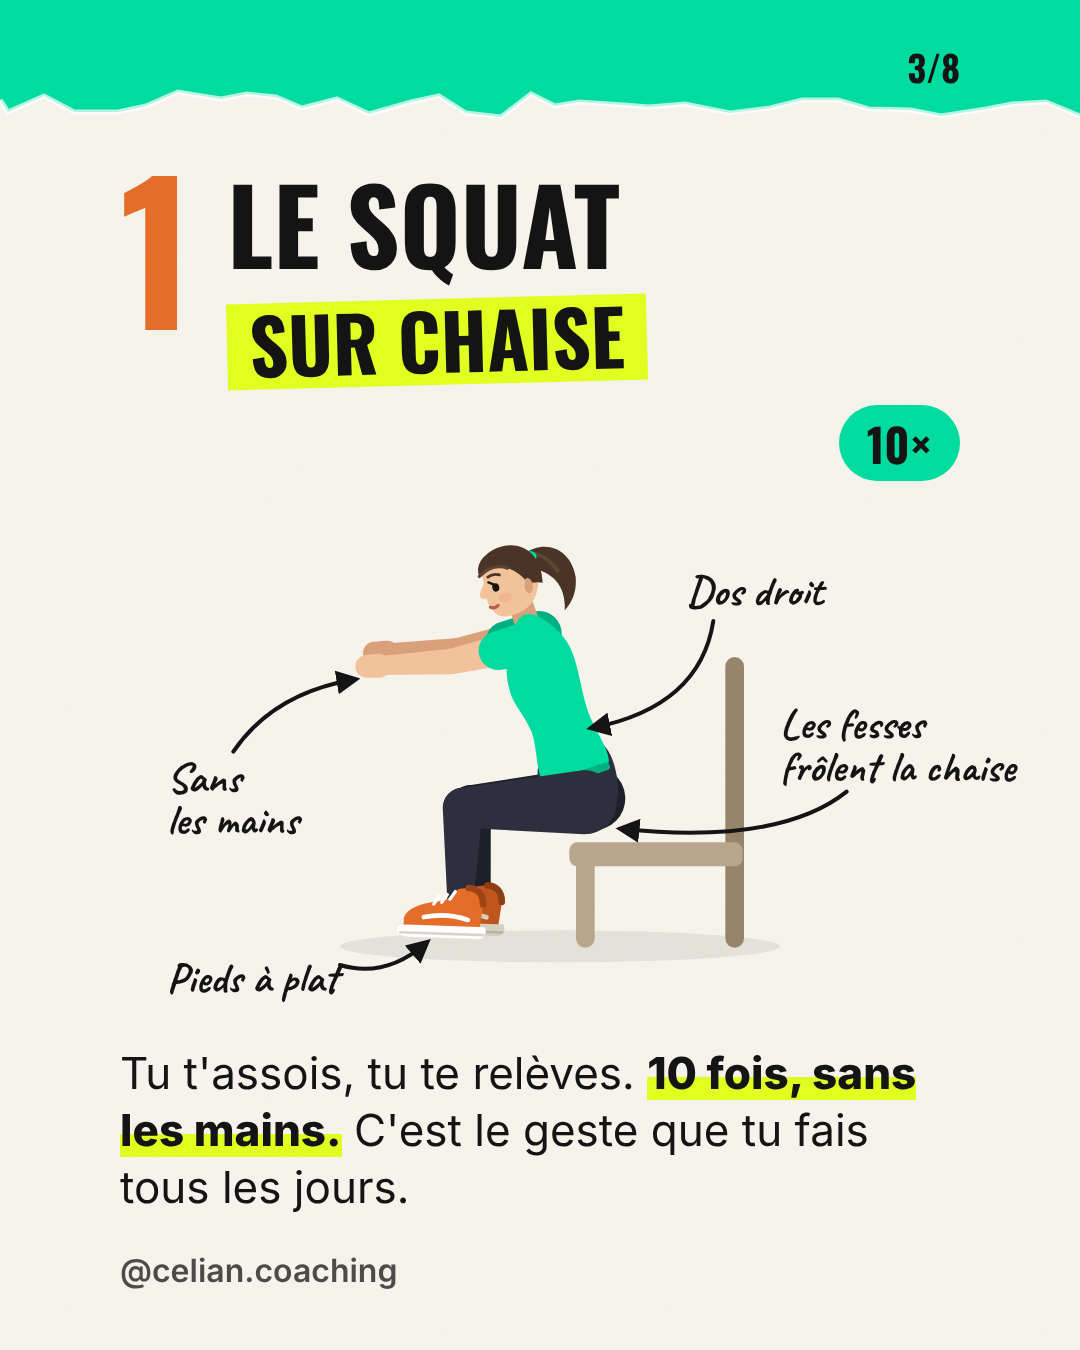
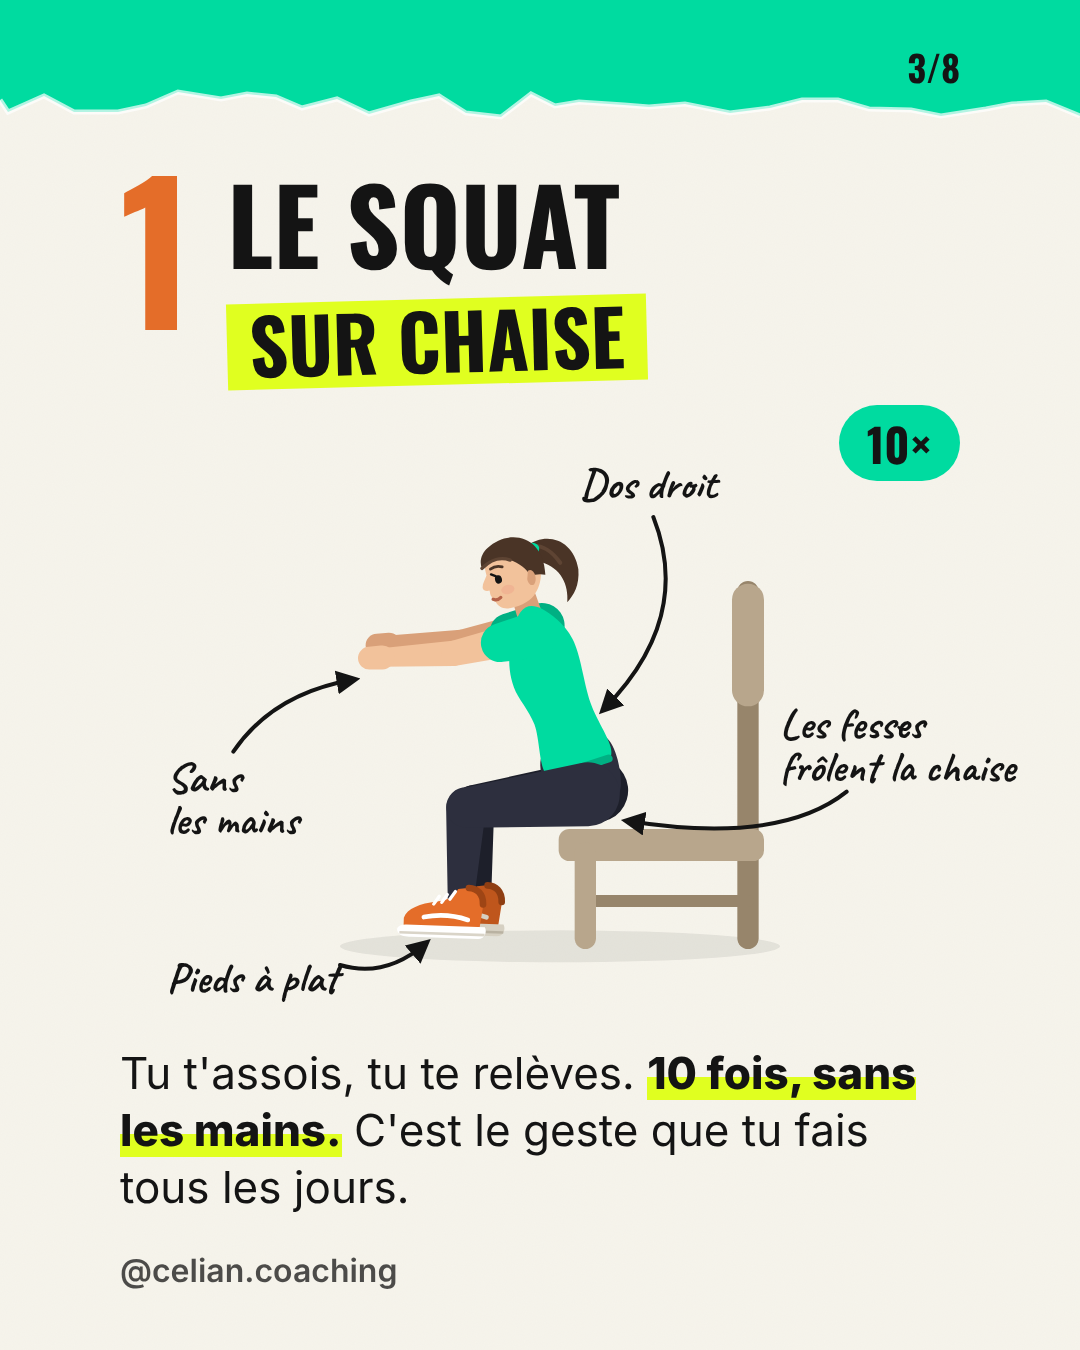
Carousel 01: bigger chair in proportion to the character, label moved off the backrest
Claude-Session: https://claude.ai/code/session_01EmtKGbXg2Rz9u67xYLS3c3

Changed region(s): [[0.3361, 0.3733, 0.7639, 0.7156], [0.5194, 0.3422, 0.6722, 0.3733], [0.3972, 0.5911, 0.4278, 0.6222]]

diff --git a/.claude/instagram/carrousels/01-4-mouvements/slides.html b/.claude/instagram/carrousels/01-4-mouvements/slides.html
@@ -190,13 +190,15 @@ const tapis = (x1, x2) => `<rect x="${x1}" y="398" width="${x2 - x1}" height="12
 const POSES = {
   squat: {
     decor: () => ombreSol(150, 480)
-      + seg([446, 336], [446, 400], 14, C.meubleO) + seg([446, 336], [446, 196], 14, C.meubleO)
-      + `<rect x="322" y="328" width="130" height="18" rx="6" fill="${C.meuble}"/>`
-      + seg([334, 336], [334, 400], 14, C.meuble),
-    notes: () => note(410, 150, ['Dos droit'], [430, 162], [340, 242], [420, 226])
+      + seg([456, 330], [456, 400], 16, C.meubleO) + seg([456, 330], [456, 140], 16, C.meubleO)
+      + seg([456, 146], [456, 214], 24, C.meuble)
+      + seg([334, 372], [456, 372], 9, C.meubleO)
+      + `<rect x="314" y="318" width="154" height="24" rx="8" fill="${C.meuble}"/>`
+      + seg([334, 336], [334, 400], 16, C.meuble),
+    notes: () => note(330, 70, ['Dos droit'], [385, 84], [348, 228], [415, 160])
       + note(20, 290, ['Sans', 'les mains'], [70, 260], [160, 206], [100, 216])
       + note(20, 440, ['Pieds à plat'], [150, 420], [214, 404], [184, 430])
-      + note(480, 250, ['Les fesses', 'frôlent la chaise'], [530, 290], [362, 318], [480, 330]),
+      + note(480, 250, ['Les fesses', 'frôlent la chaise'], [530, 290], [366, 312], [480, 330]),
   },
   mur: {
     decor: () => ombreSol(130, 520) + `<rect x="502" y="30" width="40" height="376" fill="#e4dcc6"/><rect x="502" y="30" width="8" height="376" fill="#cbc0a3"/>`,

diff --git a/.claude/instagram/carrousels/personnages.js b/.claude/instagram/carrousels/personnages.js
@@ -202,11 +202,11 @@ const POSES = {
     brasLoin: { main: [290, 400], pli: -1 },
   },
   squat: {
-    dir: -1, hanche: [334, 298], tronc: 252, regard: 4, sol: [245, 398],
+    dir: -1, hanche: [336, 292], tronc: 252, regard: 4, sol: [245, 398],
     jambe: { cheville: [240, 382], pied: 182, pli: 1 },
     jambeLoin: { cheville: [254, 380], pied: 182, pli: 1 },
-    bras: { main: [170, 196], pli: -1 },
-    brasLoin: { main: [180, 186], pli: -1 },
+    bras: { main: [170, 190], pli: -1 },
+    brasLoin: { main: [180, 180], pli: -1 },
   },
   mur: {
     dir: 1, hanche: [320, 262], tronc: -44, regard: 6, sol: [196, 398],
